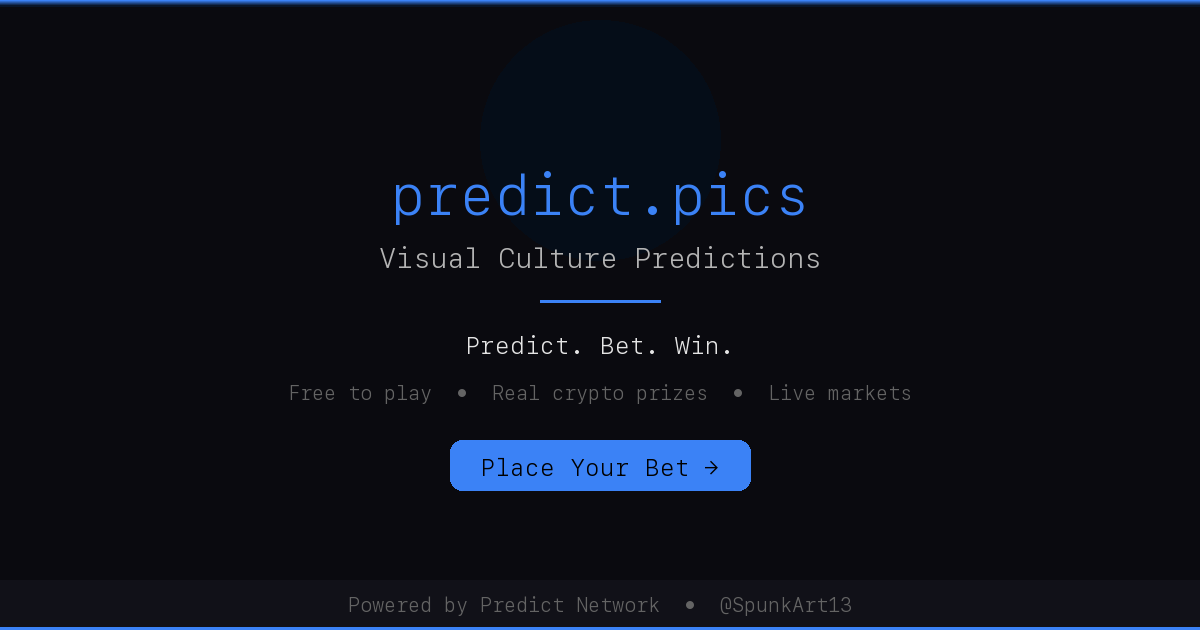
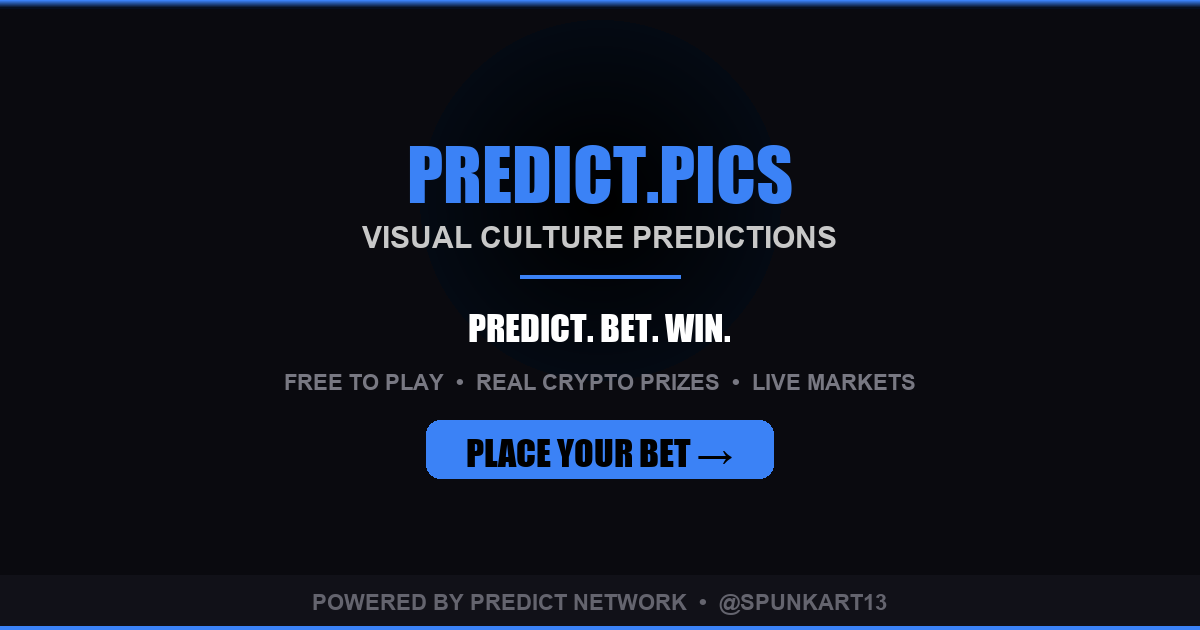
Fix wallet connect, bold OG images, clean stats

diff --git a/index.html b/index.html
@@ -1509,19 +1509,17 @@ function renderWalletOptions() {
   let html = '';
   sorted.forEach(w => {
     const detected = w.detect();
-    if (detected && w.chain !== lastChain && lastChain !== '') {
-      // no divider for detected group
-    }
     const chainCls = w.chain.toLowerCase();
     const chainLabel = w.chain === 'MULTI' ? 'BTC · ETH · SOL' : w.chain;
-    html += `<div class="wallet-option ${detected ? 'detected' : ''}" onclick="${detected ? `doConnect('${w.id}')` : `window.open('${w.url}','_blank')`}">
-      <div class="w-icon">${w.icon}</div>
-      <div class="w-info">
-        <div class="w-name">${w.name} <span class="wallet-chain-label ${chainCls}">${chainLabel}</span></div>
-        <div class="w-chain">${detected ? '🟢 Ready to connect' : 'Click to install'}</div>
-      </div>
-      <div class="w-status ${detected ? 'ready' : 'install'}">${detected ? 'Connect' : 'Install'}</div>
-    </div>`;
+    const clickAction = detected ? "doConnect('" + w.id + "')" : "window.open('" + w.url + "','_blank')";
+    html += '<div class="wallet-option ' + (detected ? 'detected' : '') + '" onclick="' + clickAction + '">' +
+      '<div class="w-icon">' + w.icon + '</div>' +
+      '<div class="w-info">' +
+        '<div class="w-name">' + w.name + ' <span class="wallet-chain-label ' + chainCls + '">' + chainLabel + '</span></div>' +
+        '<div class="w-chain">' + (detected ? '🟢 Ready to connect' : 'Click to install') + '</div>' +
+      '</div>' +
+      '<div class="w-status ' + (detected ? 'ready' : 'install') + '">' + (detected ? 'Connect' : 'Install') + '</div>' +
+    '</div>';
   });
   container.innerHTML = html;
 }
@@ -2333,7 +2331,7 @@ function loadAffiliateStats() {
 
 function shareAffiliateOnX() {
   const url = document.getElementById('referral-url').value || getSiteUrl();
-  const text = 'I\\'m earning credits on every bet my friends make on ' + document.title.split(' ')[0] + '\\n\\nFree to play. Real crypto prizes.\\n\\nJoin through my link 👇\\n\\n' + url;
+  const text = "I'm earning credits on every bet my friends make on " + document.title.split(' ')[0] + "\n\nFree to play. Real crypto prizes.\n\nJoin through my link 👇\n\n" + url;
   window.open('https://x.com/intent/tweet?text=' + encodeURIComponent(text), '_blank');
   trackRewardEvent('affiliate_share', 1000);
 }
